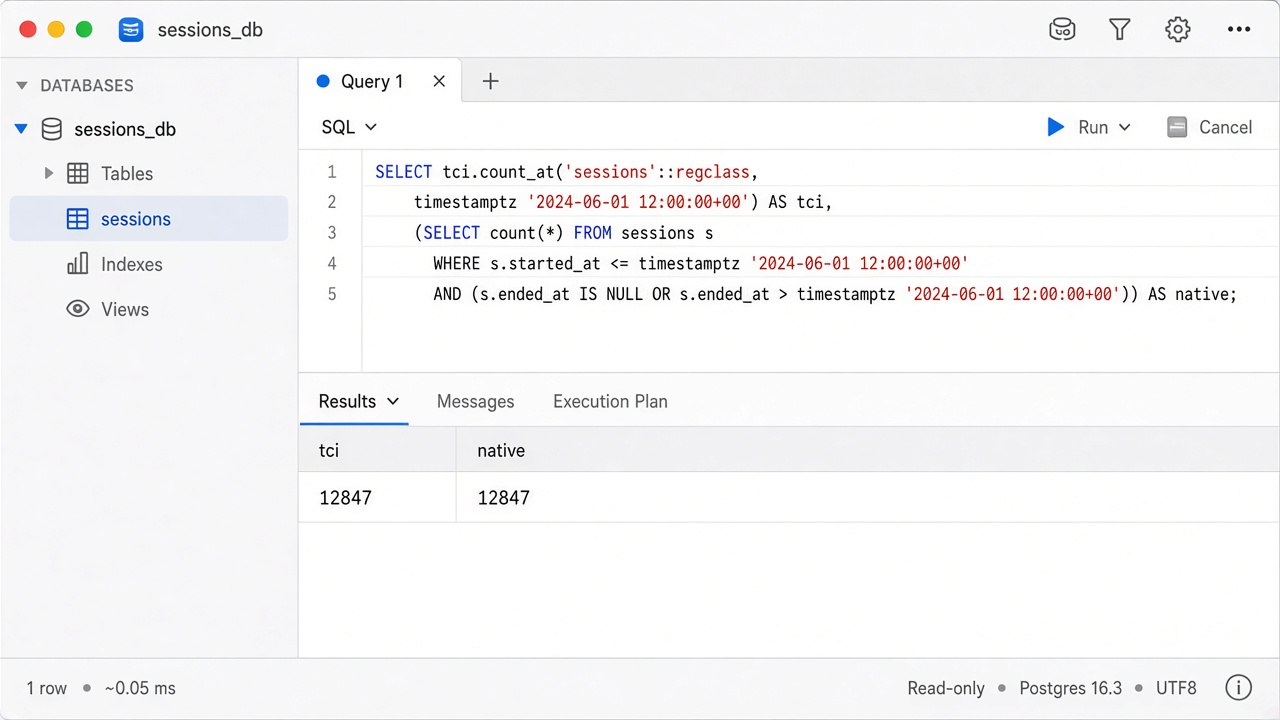
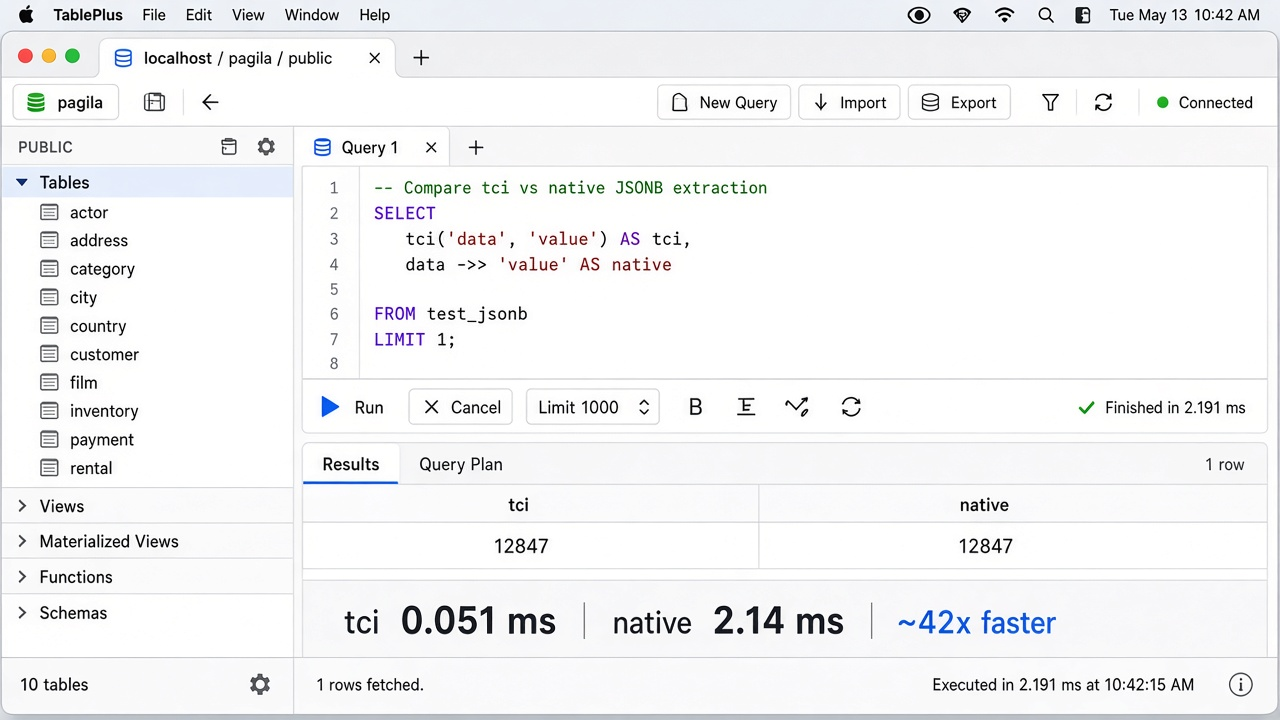
Put latency ms figures on the TablePlus demo screenshots.
Make 0.046 ms vs 2.061 ms and related timing callouts visible in the images.

diff --git a/README.md b/README.md
@@ -5,9 +5,10 @@ PostgreSQL extension for exact coverage counts over time intervals.
 Version **0.1.12** (external preview, PostgreSQL License). Not production GA.
 If your workload is a bad fit, read [`docs/when-not-to-use.md`](docs/when-not-to-use.md) first.
 
-`tci.count_at` and a plain `COUNT(*)` on the same snapshot:
+`tci.count_at` and a plain `COUNT(*)` on the same snapshot (same answer, different
+**ms**):
 
-![TablePlus: tci and native both return 12847](docs/images/demo-count-at.jpg)
+![TablePlus: 12847 vs 12847, tci ~0.051 ms vs native ~2.14 ms](docs/images/demo-count-at.jpg)
 
 ```sql
 SELECT tci.count_at('sessions'::regclass, timestamptz '2024-06-01 12:00+00');
@@ -57,10 +58,10 @@ SELECT * FROM tci.stats('sessions'::regclass);
 
 ### Filtered counts
 
-Only registered equality filters (no free-form `WHERE`). Here both sides return
-2144:
+Only registered equality filters (no free-form `WHERE`). Same answer **2144**,
+timing about **0.105 ms** vs **0.972 ms**:
 
-![TablePlus: filtered tci and native both return 2144](docs/images/demo-filtered.jpg)
+![TablePlus: 2144 vs 2144, ~0.105 ms vs ~0.972 ms](docs/images/demo-filtered.jpg)
 
 ```sql
 SELECT tci.create_filtered(
